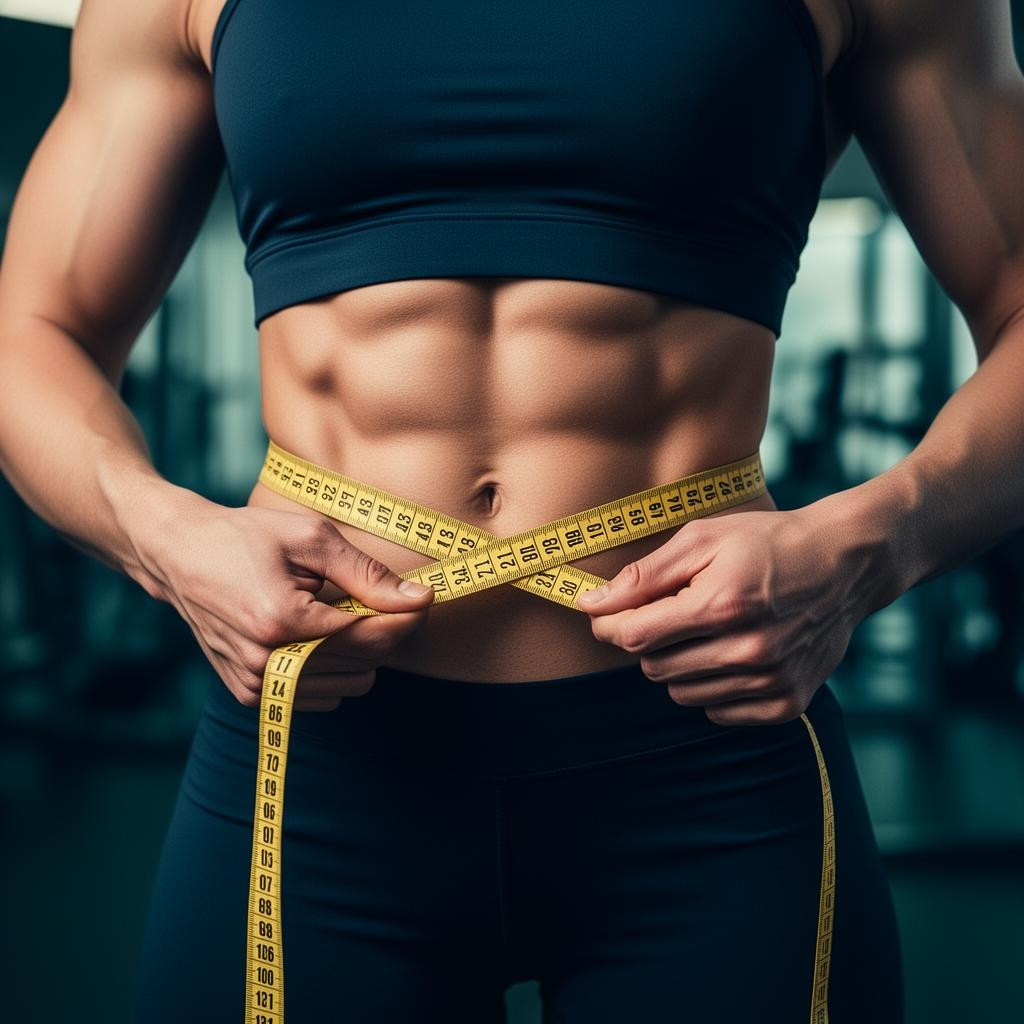
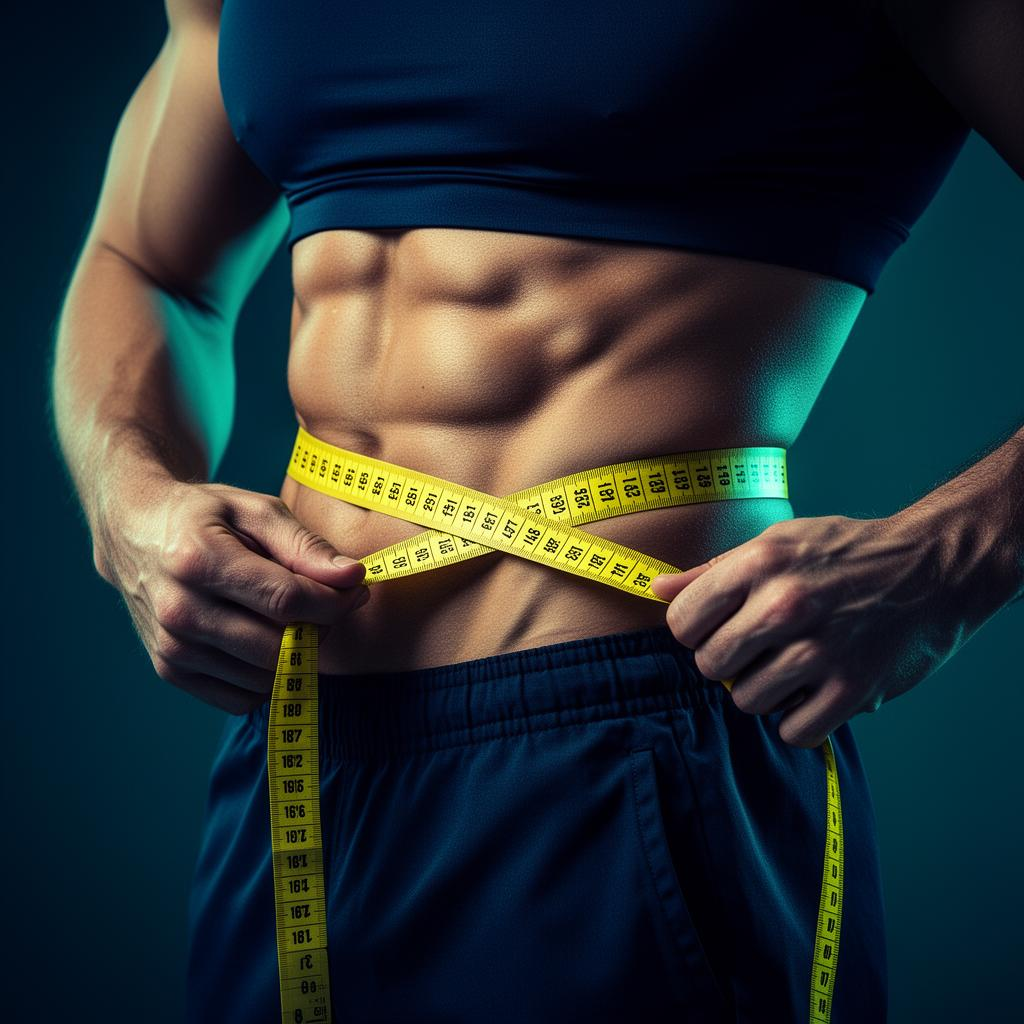
Changes

diff --git a/.lovable/plan.md b/.lovable/plan.md
@@ -1,64 +1,19 @@
-## Scope (desktop only, ≥1024px)
+## Two changes only
 
-Mobile view stays untouched. All changes gated behind desktop breakpoint.
+### 1. Smarty Programs page → Weight Loss CATEGORY card gets a different image
+- Generate one new image (waist measuring-tape theme, navy/teal grade) and save to `public/images/programs/weight-loss-card-mobile.jpg` (and matching `weight-loss-bg.jpg`), overwriting the current files.
+- These files are referenced by `src/pages/TrainingProgramFlow.tsx` for the Weight Loss category tile only.
+- The 90-Day Shred Challenge currently points its `image_url` to `https://smartygym.com/images/programs/weight-loss-card-mobile.jpg` — that DB row is NOT touched, so the program card/detail page will update to the new image automatically (same URL, new content) and stay in sync with itself.
 
-## 1. Header — match the mobile layout
+### 2. Sync Stripe product image with the 90-Day Shred Challenge
+- Call the existing `update-stripe-product` edge function for `prod_TiX1ILxJNwxNyv` with `imageUrl = https://smartygym.com/images/programs/weight-loss-card-mobile.jpg`.
+- After this, the Stripe checkout image matches the program's `image_url` exactly.
 
-Rebuild the desktop header in `src/components/Navigation.tsx` so it mirrors the mobile header:
+## Not touched
+- No DB writes.
+- No code edits in `TrainingProgramFlow.tsx` or any component.
+- No changes to any other program or category.
 
-- **Far-left edge:** hamburger menu icon (opens the existing "Explore SmartyGym" sheet — desktop variant kept).
-- **Center / left of center:** the `SMARTYGYM` wordmark (green + primary), same as mobile, instead of the large logo image.
-- **Far-right edge:** Smarty Coach round button + a single avatar dropdown button.
-  - Inside the avatar dropdown: Dashboard, Messages (with unread red dot inside), Light/Dark toggle, Admin (if admin), Logout — same items the mobile dropdown already shows.
-  - No separate bell/notification icon on the right anymore — unread state collapses into a small red dot on the avatar (like mobile).
-  - No social media icons in the header on desktop.
-- Edges flush to viewport: replace the centered `max-w-7xl` wrapper with full-width `px-4` so hamburger sits at the very left and avatar at the very right.
-- Header height reduced (~h-12) to feel light, matching the mobile compactness the user described.
-
-The existing mobile branch stays exactly as it is.
-
-## 2. Homepage hero — replace with 4 stacked "section rows"
-
-In `src/pages/Index.tsx`, the desktop hero block (videos, buttons, MobilePhoneIllustration, the "Train smarter, not harder" copy block, etc.) is replaced with a single new compact section: **4 horizontal rows**, one per pillar, designed to fit roughly within one viewport height so users don't have to scroll heavily.
-
-Each row is a horizontal card (~150–170px tall) split into two parts:
-
-```
-┌────────────────────────────────────────────────────────────┐
-│ [pillar image + title overlay]  │  [3 featured items]  →  │
-│ Smarty Workouts                  │  card · card · card     │
-└────────────────────────────────────────────────────────────┘
-```
-
-Rows:
-1. **Smarty Workouts** → 3 latest visible workouts (reuses `fetchVisibleWorkoutMetadata`, already wired for mobile).
-2. **Smarty Programs** → 3 latest visible programs (reuses `get_visible_program_metadata`).
-3. **Smarty Blog** → 3 latest published articles (reuses the existing blog query).
-4. **Smarty Tools** → 3 tool cards (static, picked from existing `toolsCards`: Timer, 1RM, Macro for example).
-
-Featured items are small compact cards (image + title + 1-line meta), each linking to the item's detail page. The pillar tile on the left links to the index page (`/workout`, `/trainingprogram`, `/blog`, `/tools`) with an "Explore" chevron.
-
-The existing `latestWorkouts` / `latestPrograms` / `latestArticles` queries are made available on desktop too (drop `enabled: isMobile`, or duplicate without the gate).
-
-Decision on carousels vs. static: use **static 3-up grids per row** (no carousels). Reason: with 4 rows already on screen, internal carousels add noise and break the "one glance, everything visible" goal the user asked for. Each row's left pillar tile is the gateway to the full list/carousel on its dedicated page. Carousels are kept for mobile only.
-
-## 3. What gets removed from desktop hero
-
-- Hero video background + the big "SmartyGym" overlay copy block
-- "Train smarter, not harder" headline + sub-copy + CTA buttons
-- `MobilePhoneIllustration` on the right
-- Hero promise cards (Real Expertise / Personal Touch / Not a Robot / Never Stop Expanding) — these stay on `/about` and mobile, but desktop home no longer duplicates them above the fold
-
-Everything below the hero on desktop (community, ritual, promise sections lower down, FAQs, footer, etc.) stays untouched.
-
-## Technical notes
-
-- Gate all new desktop hero JSX behind `!isMobile`.
-- Header changes only touch the `{!isMobile && (...)}` branch in `Navigation.tsx`.
-- New component file: `src/components/home/DesktopHeroRows.tsx` to keep `Index.tsx` from growing further.
-- Data fetching: lift `enabled: isMobile` off the three featured queries so they also run on desktop.
-- Styling uses existing design tokens (primary, border, card, muted-foreground). No new colors.
-
-## Open question before I build
-
-You said "I don't know if it's good to put carousels or just a big picture." My recommendation above is **3-up static featured items per row** (no carousels on desktop, big pillar tile on the left, 3 small featured cards on the right). If you'd rather have a single big pillar image per row with a tiny carousel of featured items, say the word and I'll switch to that variant — otherwise I'll build the 3-up version.
+## Files
+- Overwrite: `public/images/programs/weight-loss-card-mobile.jpg`, `public/images/programs/weight-loss-bg.jpg`
+- Stripe API call only — no edge function code change.
